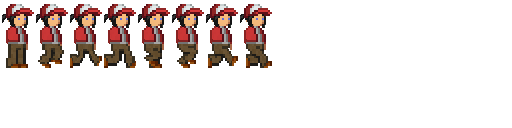
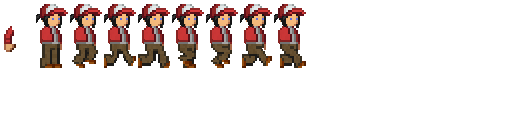
Add player hand with rotation and camera lock

Changed region(s): [[0.0, 0.0312, 0.5938, 0.5312]]

diff --git a/core/src/com/intospace/entities/Player.java b/core/src/com/intospace/entities/Player.java
@@ -3,20 +3,32 @@ package com.intospace.entities;
 import com.badlogic.gdx.Gdx;
 import com.badlogic.gdx.Input.Keys;
 import com.badlogic.gdx.InputProcessor;
+import com.badlogic.gdx.graphics.OrthographicCamera;
 import com.badlogic.gdx.graphics.g2d.Animation;
 import com.badlogic.gdx.graphics.g2d.SpriteBatch;
 import com.badlogic.gdx.graphics.g2d.TextureAtlas;
 import com.badlogic.gdx.graphics.g2d.TextureRegion;
+import com.badlogic.gdx.math.MathUtils;
+import com.badlogic.gdx.math.Vector3;
 import com.intospace.game.Entity;
+
+enum PointerSide {
+    EAST, WEST
+}
 
 public class Player extends Entity implements InputProcessor {
     private float x;
     private float y = 320;
+    private float handRotation;
     private TextureAtlas.AtlasRegion idleTexture;
+    private TextureAtlas.AtlasRegion handTexture;
     private Animation<TextureRegion> runningAnimation;
+    private OrthographicCamera camera;
 
     private boolean moveLeft;
     private boolean moveRight;
+
+    private PointerSide pointerSide = PointerSide.WEST;
 
     private float runningTime;
 
@@ -24,10 +36,12 @@ public class Player extends Entity implements InputProcessor {
         super(x, y);
     }
 
-    public Player(float x, float y, TextureAtlas.AtlasRegion idleTexture, Animation<TextureRegion> runningAnimation) {
+    public Player(float x, float y, TextureAtlas.AtlasRegion idleTexture, TextureAtlas.AtlasRegion handTexture, Animation<TextureRegion> runningAnimation, OrthographicCamera camera) {
         this(x, y);
         this.idleTexture = idleTexture;
+        this.handTexture = handTexture;
         this.runningAnimation = runningAnimation;
+        this.camera = camera;
     }
 
     public void update(float delta) {
@@ -40,13 +54,15 @@ public class Player extends Entity implements InputProcessor {
     }
 
     public void render(SpriteBatch batch) {
+        int width = idleTexture.getRegionWidth();
         if (moveLeft || moveRight) {
             runningTime += Gdx.graphics.getDeltaTime();
             TextureRegion currentFrame = runningAnimation.getKeyFrame(runningTime, true);
-            batch.draw(currentFrame, x, y);
+            batch.draw(currentFrame, x + (pointerSide == PointerSide.EAST ? width : 0), y, (pointerSide == PointerSide.EAST ? -width : width), currentFrame.getRegionHeight());
         } else {
-            batch.draw(idleTexture, x, y);
+            batch.draw(idleTexture, x + (pointerSide == PointerSide.EAST ? width : 0), y, (pointerSide == PointerSide.EAST ? -width : width), idleTexture.getRegionHeight());
         }
+        batch.draw(handTexture, x + (pointerSide == PointerSide.EAST ? width : 0), y, (pointerSide == PointerSide.EAST ? -10 : 10), handTexture.getRegionHeight() / 1.6f, (pointerSide == PointerSide.EAST ? -width : width), handTexture.getRegionHeight(), 1, 1, (pointerSide == PointerSide.EAST ? handRotation - 80 : handRotation + 180 + 80));
     }
 
     private void moveLeft(boolean state) {
@@ -59,6 +75,14 @@ public class Player extends Entity implements InputProcessor {
         runningTime = 0;
     }
 
+    public float getOriginX() {
+        return x + idleTexture.getRegionWidth() / 2f;
+    }
+
+    public float getOriginY() {
+        return y + idleTexture.getRegionHeight() / 2f;
+    }
+
     @Override
     public boolean keyDown(int keycode) {
         switch (keycode) {
@@ -69,7 +93,7 @@ public class Player extends Entity implements InputProcessor {
                 moveRight(true);
                 break;
         }
-        return true;
+        return false;
     }
 
     @Override
@@ -107,7 +131,15 @@ public class Player extends Entity implements InputProcessor {
 
     @Override
     public boolean mouseMoved(int screenX, int screenY) {
-        return false;
+        Vector3 worldPosition = camera.unproject(new Vector3(screenX, screenY, 0));
+        if (worldPosition.x > this.x + this.idleTexture.getRegionWidth() / 2f)
+            pointerSide = PointerSide.WEST;
+        else
+            pointerSide = PointerSide.EAST;
+        handRotation = MathUtils.radiansToDegrees * MathUtils.atan2((this.y + this.idleTexture.getRegionHeight() / 2f) - worldPosition.y, (this.x + this.idleTexture.getRegionWidth() / 2f) - worldPosition.x);
+        if (handRotation < 0)
+            handRotation += 360;
+        return true;
     }
 
     @Override

diff --git a/core/src/com/intospace/game/IntoSpaceGame.java b/core/src/com/intospace/game/IntoSpaceGame.java
@@ -1,9 +1,6 @@
 package com.intospace.game;
 
-import com.badlogic.gdx.ApplicationAdapter;
-import com.badlogic.gdx.Gdx;
-import com.badlogic.gdx.InputMultiplexer;
-import com.badlogic.gdx.InputProcessor;
+import com.badlogic.gdx.*;
 import com.badlogic.gdx.graphics.GL20;
 import com.badlogic.gdx.graphics.OrthographicCamera;
 import com.badlogic.gdx.graphics.g2d.*;
@@ -24,6 +21,7 @@ public class IntoSpaceGame extends ApplicationAdapter {
 
 	Player player;
 
+	boolean cameraLocked;
 	OrthographicCamera gameCamera;
 	OrthographicCamera hudCamera;
 
@@ -53,14 +51,16 @@ public class IntoSpaceGame extends ApplicationAdapter {
 
 		textureAtlas = new TextureAtlas("Player.atlas");
 		Animation<TextureRegion> runningAnimation = new Animation<TextureRegion>(0.070f, textureAtlas.findRegions("Player_Running"), Animation.PlayMode.LOOP);
-		player = new Player(0, 0, textureAtlas.findRegion("Player_Idle"), runningAnimation);
+		player = new Player(0, 0, textureAtlas.findRegion("Player_Idle"), textureAtlas.findRegion("Player_Hand"), runningAnimation, gameCamera);
 
 		InputMultiplexer inputMultiplexer = new InputMultiplexer();
 		inputMultiplexer.addProcessor(player);
 		inputMultiplexer.addProcessor(new InputProcessor() {
 			@Override
 			public boolean keyDown(int keycode) {
-				return false;
+				if (keycode == Input.Keys.SPACE)
+					cameraLocked = !cameraLocked;
+				return true;
 			}
 
 			@Override
@@ -107,6 +107,8 @@ public class IntoSpaceGame extends ApplicationAdapter {
 		if (Gdx.input.isTouched()) {
 			gameCamera.translate(-Gdx.input.getDeltaX(), Gdx.input.getDeltaY());
 		}
+		if (cameraLocked)
+			gameCamera.position.set(player.getOriginX(), player.getOriginY(), 0);
 		gameCamera.update();
 		batch.setProjectionMatrix(gameCamera.combined);
 		hudCamera.update();
@@ -116,8 +118,8 @@ public class IntoSpaceGame extends ApplicationAdapter {
 	@Override
 	public void render() {
 		float delta = Gdx.graphics.getDeltaTime();
-		update();
 		player.update(delta);
+		update();
 		Gdx.gl.glClearColor(0, 1, 1, 1);
 		Gdx.gl.glClear(GL20.GL_COLOR_BUFFER_BIT);
 
@@ -135,7 +137,9 @@ public class IntoSpaceGame extends ApplicationAdapter {
 		batch.end();
 
 		hud.begin();
+		font.getData().markupEnabled = true;
 		font.draw(hud, "FPS: " + Gdx.graphics.getFramesPerSecond(), 5, hudCamera.viewportHeight - 5);
+		font.draw(hud, "Camera: " + (cameraLocked ? "[#FF0000]Locked" : "[#00FF00]Unlocked"), 5, hudCamera.viewportHeight - 5 - font.getLineHeight());
 		font.draw(hud, VERSION, hudCamera.viewportWidth - versionWidth - 5, font.getLineHeight());
 		hud.end();
 		// Gdx.graphics.setTitle("Into Space (FPS: " + Gdx.graphics.getFramesPerSecond() + ")");
